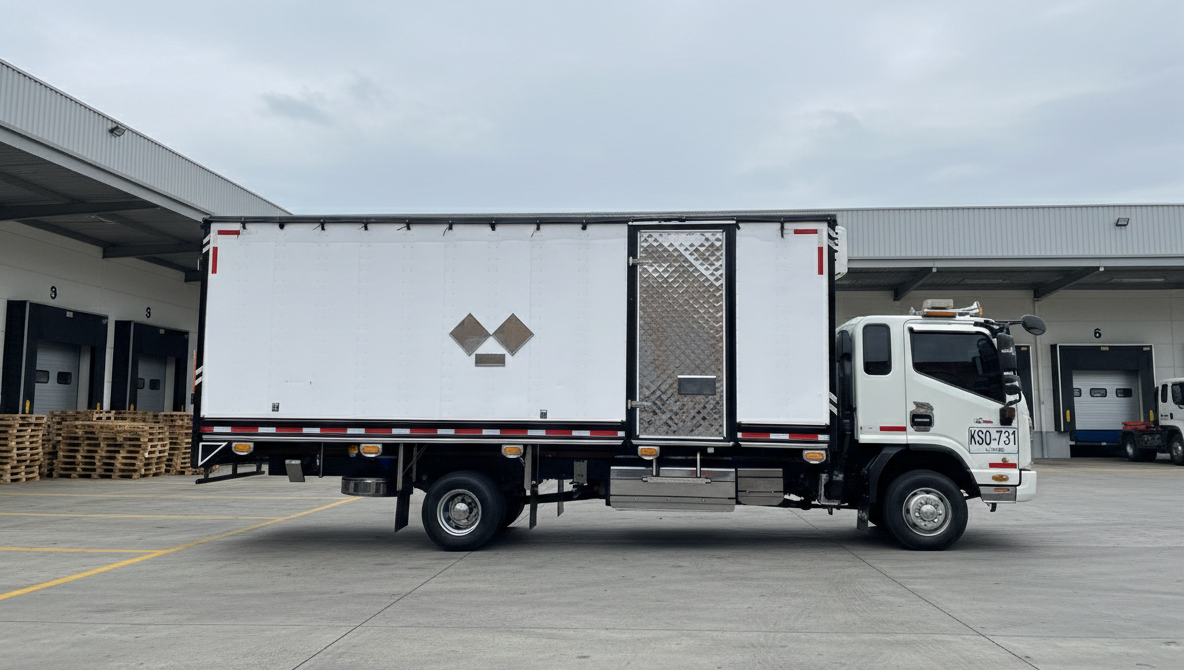
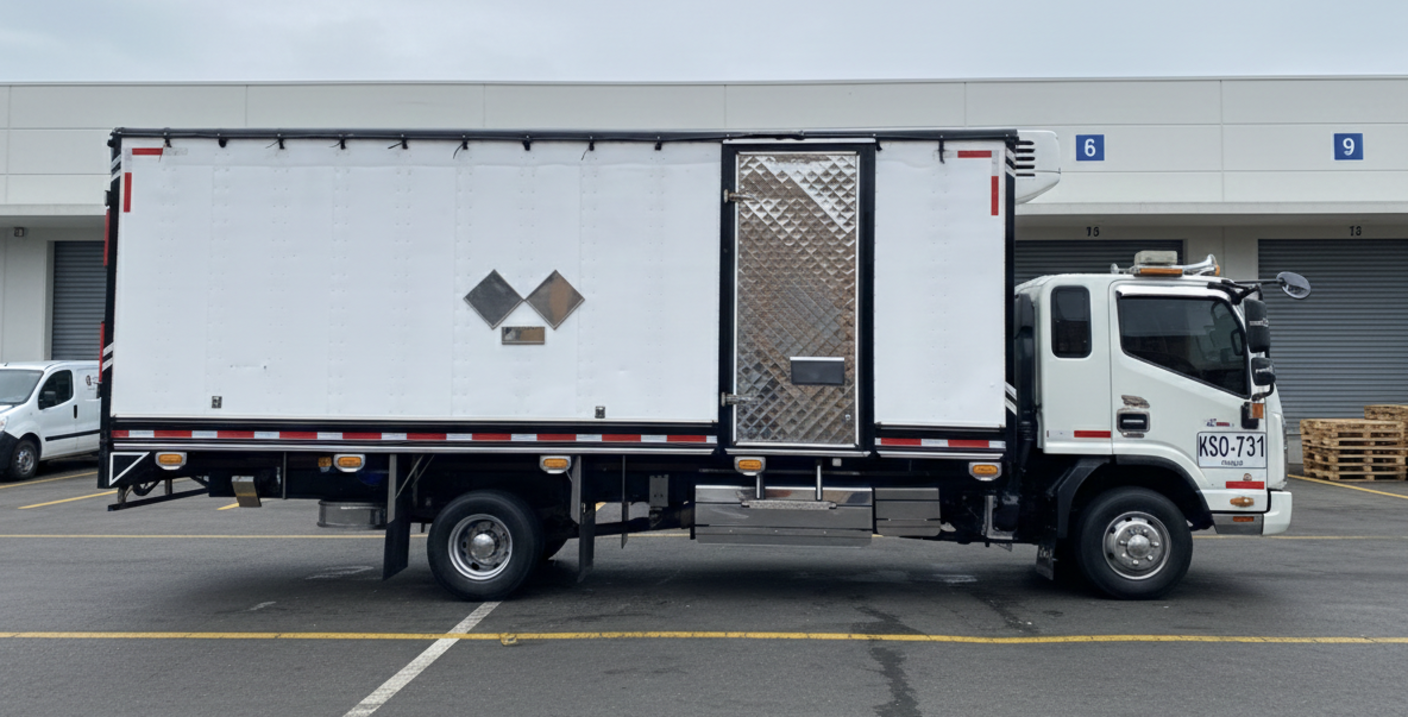
Cambios Dominio (?)

diff --git a/index.html b/index.html
@@ -100,7 +100,7 @@
                             </div>
                             <div class="Ad_Card2">
                                 <div class="Ad_Card_image Ad_img_gerente"></div>
-                                <p class="Text_Medium Ad_Card_tittle">YESID ARIEL CERVO OROZCO</p>
+                                <p class="Text_Medium Ad_Card_tittle">YESID ARIEL CUERVO OROZCO</p>
                                 <p class="Text_Black">GERENTE GENERAL</p>
                                 <p class="Text_Medium Ad_Card_text">Mi prioridad es garantizar la seguridad operacional en cada proyecto y ofrecer nuestros servicios logísticos con los más altos estándares de calidad, compromiso y eficiencia para nuestros clientes.</p>
                                 <div class="Ad_cont_aux flex-row">
